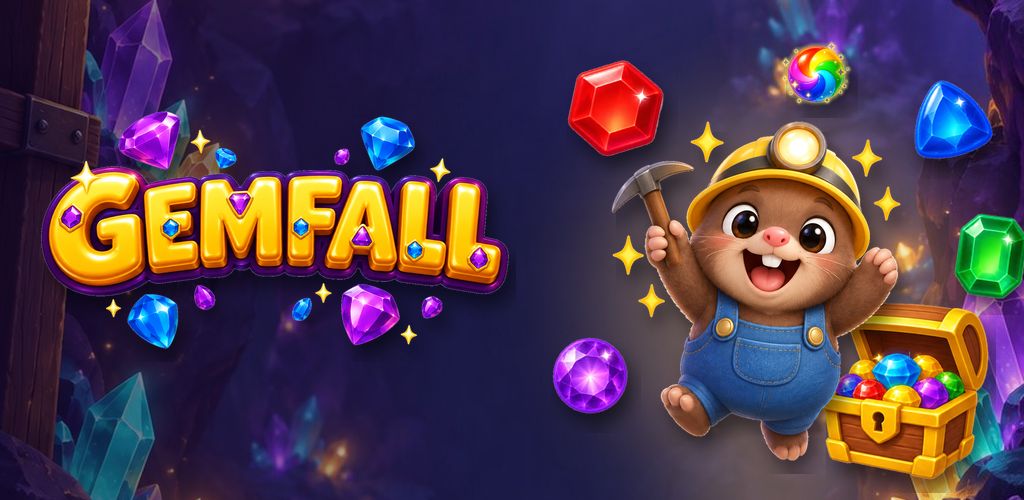
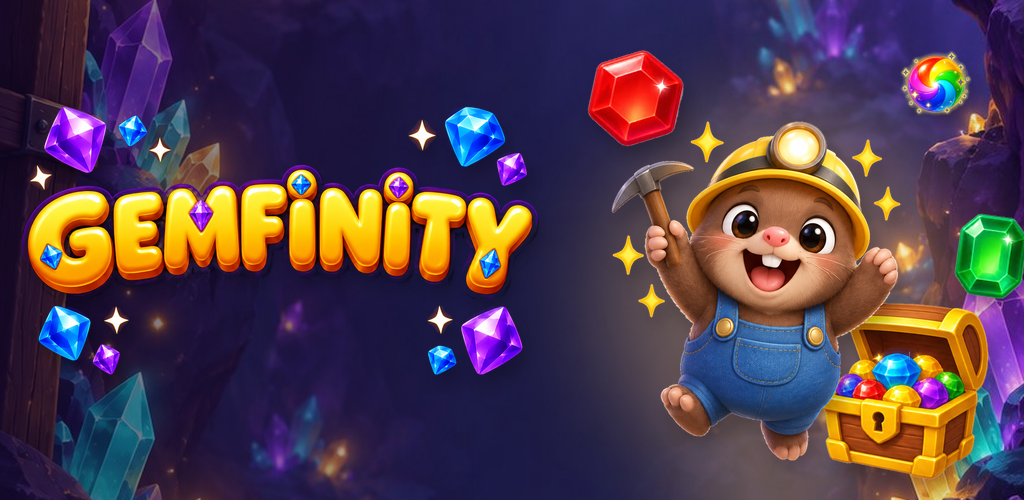
Rename the game to Gemfinity
- New logo (gold GEMFINITY lettering with gems), splash screen and Play
  feature graphic; new app icon: Digby holding a ruby, as a full-bleed
  Play icon and Android adaptive layers
- App name Gemfinity and app ID com.gemfinity.game (set before the first
  Play upload, after which it can't change); the build script finds the
  activity from the app ID
- All player-facing text, the store listing, privacy policy, launch
  checklist and README use the new name; release files are Gemfinity.apk
  and Gemfinity-play.aab, and the old Gemfall files are removed from the
  release
- Internal names stay (folders, the gemfall-latest release tag, the save
  key), so existing progress and update checks keep working

Claude-Session: https://claude.ai/code/session_01QCFom7i7LPYdSkXJyM8wrV

diff --git a/gemfall/js/main.js b/gemfall/js/main.js
@@ -1,4 +1,4 @@
-// Gemfall app controller: screens, level map, lives, HUD, input, overlays, boosters and saved progress.
+// Gemfinity app controller: screens, level map, lives, HUD, input, overlays, boosters and saved progress.
 import { LEVELS, WORLDS, mapFor, getLevel, layoutCount } from './levels.js';
 import { Renderer } from './render.js';
 import { Game } from './game.js';
@@ -158,7 +158,7 @@ async function applyTheme(id) {
   $('gameBg').src = A + THEMES[id].bg;
   if ($('map').classList.contains('active')) buildMap(false);
 }
-function versionText() { return isApp ? `Gemfall app 1.${appVer || '?'}${appChannel === 'play' ? ' (Google Play)' : ''} · game content ${BUILD.number}` : 'Gemfall web version'; }
+function versionText() { return isApp ? `Gemfinity app 1.${appVer || '?'}${appChannel === 'play' ? ' (Google Play)' : ''} · game content ${BUILD.number}` : 'Gemfinity web version'; }
 function openSettings() {
   modal(`${closeX}<h2 class="gold-title" style="margin-top: 6px">Settings</h2>${toggles()}${themePicker()}
     <div class="actions"><button class="btn btn-purple" data-act="close">Done</button>
@@ -740,7 +740,7 @@ function showUpdateNotice() {
       <div class="meta">${n.notes ? '' : 'New levels and improvements have downloaded.'}</div>
       <div class="actions"><button class="btn btn-green" data-act="update-restart">Restart now</button>
       <button class="btn btn-purple" data-act="close">Later</button></div>
-      <div class="meta" style="font-size: 13px">It also switches over by itself the next time you close Gemfall.</div>`);
+      <div class="meta" style="font-size: 13px">It also switches over by itself the next time you close Gemfinity.</div>`);
     if (n.notes) $('modal').querySelector('.meta').textContent = n.notes;
   } else {
     const play = n.channel === 'play';
@@ -750,14 +750,14 @@ function showUpdateNotice() {
       <div class="actions"><button class="btn btn-green" data-act="update-get">${play ? 'Update on Google Play' : 'Download it'}</button>
       <button class="btn btn-purple" data-act="close">Later</button></div>
       <div class="meta" style="font-size: 13px">${play ? 'Your progress is kept.' : 'Open the downloaded file to install it. Your progress is kept.'}</div>`);
-    $('modal').querySelector('.meta').textContent = n.message || 'A newer version of Gemfall is ready to install. It brings things this version can\u2019t get as a quick update.';
+    $('modal').querySelector('.meta').textContent = n.message || 'A newer version of Gemfinity is ready to install. It brings things this version can\u2019t get as a quick update.';
   }
 }
 function showForceUpdate(url, message, applying = false, channel = 'github') {
   const el = $('forceUpdate');
-  el.querySelector('h2').textContent = applying ? 'Updating Gemfall' : 'Update needed';
+  el.querySelector('h2').textContent = applying ? 'Updating Gemfinity' : 'Update needed';
   el.querySelector('.msg').textContent = applying ? 'Getting the latest version. This only takes a moment.'
-    : (message || 'This version of Gemfall needs an important fix. Download the new version to keep playing.');
+    : (message || 'This version of Gemfinity needs an important fix. Download the new version to keep playing.');
   const btn = el.querySelector('button');
   btn.hidden = applying || !url;
   btn.textContent = channel === 'play' ? 'Update on Google Play' : 'Download update';

diff --git a/gemfall/index.html b/gemfall/index.html
@@ -4,7 +4,7 @@
 <meta charset="utf-8">
 <meta name="viewport" content="width=device-width, initial-scale=1, maximum-scale=1, viewport-fit=cover">
 <meta name="theme-color" content="#1a1233">
-<title>Gemfall</title>
+<title>Gemfinity</title>
 <link rel="stylesheet" href="fonts/fonts.css">
 <style>
   :root {
@@ -255,7 +255,7 @@
 <body>
 <div id="app">
   <div id="loading">
-    <div class="h-font" style="font-size: 34px; color: var(--gold-2)">Gemfall</div>
+    <div class="h-font" style="font-size: 34px; color: var(--gold-2)">Gemfinity</div>
     <div class="bar"><div id="loadBar"></div></div>
     <div style="font-size: 13px; font-weight: 800; color: var(--muted)">Digging up gems…</div>
   </div>
@@ -269,7 +269,7 @@
         <span class="chip lives" style="margin-right: auto; margin-left: 8px"><img src="assets/ui-heart.png" alt="Lives"><span class="lives-count">3</span><small class="lives-time">Full</small></span>
         <button class="round" id="titleSettings" aria-label="Settings"><svg width="22" height="22" viewBox="0 0 24 24" fill="none" stroke="#fff" stroke-width="2.8" stroke-linecap="round" aria-hidden="true"><path d="M4 6h9M19 6h1M4 12h3M13 12h7M4 18h11M20 18h0"></path><circle cx="16" cy="6" r="2.4"></circle><circle cx="10" cy="12" r="2.4"></circle><circle cx="17.5" cy="18" r="2.4"></circle></svg></button>
       </div>
-      <img class="logo" src="assets/logo.png" alt="Gemfall">
+      <img class="logo" src="assets/logo.png" alt="Gemfinity">
       <div class="tag">DIG DEEP · MATCH GEMS · FIND TREASURE</div>
       <div class="stage" aria-hidden="true">
         <img class="fg" src="assets/gem-amethyst.png" alt="" style="left: 5%; top: 8%">

diff --git a/gemfall/js/levels.js b/gemfall/js/levels.js
@@ -1,4 +1,4 @@
-// Gemfall level data.
+// Gemfinity level data.
 // Layout legend (one character per cell, 8 columns per row):
 //   .  gem
 //   _  hole (not part of the board)

diff --git a/gemfall-android/play/PLAY-LAUNCH.md b/gemfall-android/play/PLAY-LAUNCH.md
@@ -1,4 +1,4 @@
-# Launching Gemfall on Google Play
+# Launching Gemfinity on Google Play
 
 Everything Play needs from the game is in this folder or built automatically. The steps below are the ones only the account owner can do.
 
@@ -6,7 +6,7 @@ Everything Play needs from the game is in this folder or built automatically. Th
 
 | Item | Where |
 | --- | --- |
-| The app bundle Google Play needs (`.aab`) | Built by GitHub on every push and attached to the [gemfall-latest release](https://github.com/jarjisjo-arch/video/releases/tag/gemfall-latest) as `Gemfall-play.aab`, once step 1 is done |
+| The app bundle Google Play needs (`.aab`) | Built by GitHub on every push and attached to the [gemfall-latest release](https://github.com/jarjisjo-arch/video/releases/tag/gemfall-latest) as `Gemfinity-play.aab`, once step 1 is done |
 | App icon, feature graphic, 6 phone screenshots | `icon-512.png`, `feature-graphic.png`, `screenshots/` |
 | Name, descriptions, release notes, category, tags | `store-listing.md` |
 | Privacy policy | `privacy-policy.md`, published at https://github.com/jarjisjo-arch/video/blob/ccr-589b2a74-kj2uok/gemfall-android/play/privacy-policy.md |
@@ -21,7 +21,7 @@ Google Play only accepts bundles signed with your own private **upload key**. It
 2. On GitHub, open the repository, then **Settings > Secrets and variables > Actions > New repository secret**. Add two secrets:
    - Name `PLAY_UPLOAD_KEYSTORE`, value: the whole text of `gemfall-upload.jks.base64.txt`
    - Name `PLAY_UPLOAD_PASSWORD`, value: the password
-3. Open **Actions**, select the latest "Build Gemfall Android app" run and choose **Re-run all jobs** (or ask Claude to push any change). When it finishes, `Gemfall-play.aab` appears on the release.
+3. Open **Actions**, select the latest "Build Gemfinity Android app" run and choose **Re-run all jobs** (or ask Claude to push any change). When it finishes, `Gemfinity-play.aab` appears on the release.
 
 ## 2. Create the developer account
 
@@ -32,12 +32,12 @@ Google Play only accepts bundles signed with your own private **upload key**. It
 
 In Play Console, choose **Create app**:
 
-- App name: `Gemfall: Gem Match Puzzle`
+- App name: `Gemfinity: Gem Match Puzzle`
 - Default language: English (United States)
 - App or game: **Game**. Free or paid: **Free**
 - Accept the declarations.
 
-The package name is `com.gemfall.game` and is fixed once the first bundle is uploaded. If Play says it is already taken, tell Claude; the app ID has to change before the first upload.
+The package name is `com.gemfinity.game` and is fixed once the first bundle is uploaded. If Play says it is already taken, tell Claude; the app ID has to change before the first upload.
 
 ## 4. Store listing
 
@@ -52,8 +52,8 @@ Under **Policy and programs > App content**:
 | Privacy policy | The privacy policy URL above |
 | App access | All functionality is available without special access |
 | Ads | No, the app doesn't contain ads |
-| Content rating | Category: **Game**. Answer **No** to violence, fear, sexual content, crude humor, language, controlled substances, gambling (Gemfall has no real or simulated gambling: chests and daily gifts are fixed rewards), user interaction or chat, sharing location, and digital purchases. Expect **Everyone / PEGI 3** |
-| Target audience | Gemfall's cartoon style appeals to children, so choosing age groups that include under 13 is the honest answer. That puts it under Google's Families policy, which Gemfall already meets: no ads, no accounts, no data collection, no tracking. If you pick 13 and over only, Google may still decide it appeals to children and ask for the same checks |
+| Content rating | Category: **Game**. Answer **No** to violence, fear, sexual content, crude humor, language, controlled substances, gambling (Gemfinity has no real or simulated gambling: chests and daily gifts are fixed rewards), user interaction or chat, sharing location, and digital purchases. Expect **Everyone / PEGI 3** |
+| Target audience | Gemfinity's cartoon style appeals to children, so choosing age groups that include under 13 is the honest answer. That puts it under Google's Families policy, which Gemfinity already meets: no ads, no accounts, no data collection, no tracking. If you pick 13 and over only, Google may still decide it appeals to children and ask for the same checks |
 | Data safety | "Does your app collect or share any of the required user data types?" **No**. Progress stays on the phone; the update check downloads files from GitHub and sends no user data |
 | Advertising ID | No, the app doesn't use an advertising ID |
 | Government, financial, health, news apps | No to each |
@@ -61,7 +61,7 @@ Under **Policy and programs > App content**:
 ## 6. Closed test: 12 testers for 14 days (required for new personal accounts)
 
 1. **Testing > Closed testing > Create track** (or use the default Alpha track).
-2. Create a release and upload `Gemfall-play.aab` from the release page. When asked about app signing, keep the default: Google creates and protects the app signing key, and your upload key signs what you upload.
+2. Create a release and upload `Gemfinity-play.aab` from the release page. When asked about app signing, keep the default: Google creates and protects the app signing key, and your upload key signs what you upload.
 3. **Testers:** create an email list with at least 12 Google accounts. Aim for 15 in case someone drops out: Google counts testers who stay opted in for **14 days in a row**.
 4. Send the testers the opt-in link with the message below. Each one must accept and install from Google Play.
 5. Roll out the release to the closed track. Google reviews it first, which can take from hours to a few days.
@@ -69,19 +69,19 @@ Under **Policy and programs > App content**:
 
 Message for testers:
 
-> Hi! I'm launching my game Gemfall on Google Play and need testers for two weeks. Please:
+> Hi! I'm launching my game Gemfinity on Google Play and need testers for two weeks. Please:
 > 1. Open this link on your Android phone and tap "Become a tester": [paste the opt-in link]
-> 2. Install Gemfall from the Google Play link on that page.
+> 2. Install Gemfinity from the Google Play link on that page.
 > 3. Play a few levels now and then over the next 14 days, and keep it installed until I say we're done.
 > Tell me if anything looks wrong. Thank you!
 
 ## 7. Apply for production
 
-After 14 days with at least 12 testers, Play Console shows **Apply for production** on the dashboard. Answer the questions about the test; Google's review can take up to about a week. Then go to **Production > Create new release**, add the latest `Gemfall-play.aab`, and roll out.
+After 14 days with at least 12 testers, Play Console shows **Apply for production** on the dashboard. Answer the questions about the test; Google's review can take up to about a week. Then go to **Production > Create new release**, add the latest `Gemfinity-play.aab`, and roll out.
 
 ## After launch
 
 - **New levels and fixes** still reach every player as live updates, with no Play review needed. Content updates must stay within what the listing describes (Google's rules for code that runs in a web view).
-- **App updates** (native changes such as a new plugin): upload the newest `Gemfall-play.aab` to Production. Each build has a higher version code, as Play requires.
-- **Forcing an update:** `forceAppBelow` in `update-policy.json` works for Play players too; their "Update needed" screen opens Gemfall's Google Play page.
+- **App updates** (native changes such as a new plugin): upload the newest `Gemfinity-play.aab` to Production. Each build has a higher version code, as Play requires.
+- **Forcing an update:** `forceAppBelow` in `update-policy.json` works for Play players too; their "Update needed" screen opens Gemfinity's Google Play page.
 - **The shared APK and the Play version are signed with different keys**, so one can't install over the other. To switch a phone (your own, for example), uninstall the APK first; its progress isn't carried over. After launch, share the Google Play link instead of the APK.

diff --git a/gemfall/README.md b/gemfall/README.md
@@ -1,4 +1,4 @@
-# Gemfall
+# Gemfinity
 
 A match-3 puzzle game set in a glowing crystal mine. Swap gems, set off special gems, and dig down through 81 levels across 9 worlds with Digby the mole miner, then keep going in the never-ending Endless Dig.
 
@@ -18,7 +18,7 @@ Opening `index.html` straight from the file system will not work, because browse
 
 Every push that changes the game builds an Android app (APK) on GitHub Actions and attaches it to the **gemfall-latest** release:
 
-`https://github.com/jarjisjo-arch/video/releases/download/gemfall-latest/Gemfall.apk`
+`https://github.com/jarjisjo-arch/video/releases/download/gemfall-latest/Gemfinity.apk`
 
 Open that link on an Android phone, download the file, open it and allow installs from your browser when Android asks. To share the game, send the same link (or the APK file itself). A newer APK installs over the old one and keeps your progress, because every build is signed with the same key.
 
@@ -26,13 +26,13 @@ The app is the same web game wrapped with [Capacitor](https://capacitorjs.com); 
 
 The signing key (`gemfall-android/gemfall-share.keystore`) is committed on purpose, so every build is signed the same way. That is fine for sharing with friends. Before publishing on Google Play, make a new private key and keep it out of the repository.
 
-**Google Play:** each build also makes `Gemfall-play.aab`, the bundle Google Play needs, signed with a private upload key kept in GitHub's secrets. The store icon, feature graphic, screenshots, listing text, privacy policy and a step-by-step launch checklist are in `../gemfall-android/play/` (start with `PLAY-LAUNCH.md`). Play installs are versioned `1.<build>-play`, so the game sends those players to Google Play rather than to the APK when an app update is needed.
+**Google Play:** each build also makes `Gemfinity-play.aab`, the bundle Google Play needs, signed with a private upload key kept in GitHub's secrets. The store icon, feature graphic, screenshots, listing text, privacy policy and a step-by-step launch checklist are in `../gemfall-android/play/` (start with `PLAY-LAUNCH.md`). Play installs are versioned `1.<build>-play`, so the game sends those players to Google Play rather than to the APK when an app update is needed.
 
 iPhones can't install APKs. iPhone players can use the web version and add it to the home screen from Safari's Share menu.
 
 ### Shipping updates
 
-Every build publishes three files to the **gemfall-latest** release: `Gemfall.apk`, `gemfall-web.zip` (the game itself: code, levels, art and sounds) and `update.json`, which describes the newest build. The Android app (version 1.6 and later) reads `update.json` each time it starts:
+Every build publishes three files to the **gemfall-latest** release: `Gemfinity.apk`, `gemfall-web.zip` (the game itself: code, levels, art and sounds) and `update.json`, which describes the newest build. The Android app (version 1.6 and later) reads `update.json` each time it starts:
 
 - **New levels and fixes arrive by themselves.** If the game content is newer than the player's, the app downloads `gemfall-web.zip` in the background (checked against its SHA-256) and shows an "Update ready" pop-up on the title or map screen. The new content takes over when the player taps **Restart now**, or the next time they close the app. If the new content fails to start, the app goes back to the previous version on its own. So to add levels, edit `js/levels.js` (and add a map in `WORLD_MAPS` for a new world) and push: nobody needs to reinstall.
 - **Forcing an update.** Edit `gemfall-android/update-policy.json` and push:
@@ -135,7 +135,7 @@ Move counts were tuned by having a bot play every level several times; most leve
 
 ## Art
 
-The gems, fruit and space pieces, special gems, items, obstacles, icons, backgrounds, the eight world maps, Digby, the logo and the app icon were generated with Figma's AI image generator for this project. The originals are in the "Gemfall game art" Figma file.
+The gems, fruit and space pieces, special gems, items, obstacles, icons, backgrounds, the eight world maps, Digby, the logo and the app icon were generated with Figma's AI image generator for this project. The originals are in the "Gemfinity game art" Figma file.
 
 The sound effects and jingles in `assets/sfx/` come from Kenney's [Interface Sounds](https://kenney.nl/assets/interface-sounds), [Impact Sounds](https://kenney.nl/assets/impact-sounds) and [Music Jingles](https://kenney.nl/assets/music-jingles) packs, released under CC0 (public domain). They were trimmed, normalised and converted to MP3; the license is in `assets/sfx/License-Kenney.txt`.
 

diff --git a/gemfall-android/play/privacy-policy.md b/gemfall-android/play/privacy-policy.md
@@ -1,28 +1,28 @@
-# Gemfall privacy policy
+# Gemfinity privacy policy
 
 Last updated: 25 November 2026
 
-Gemfall is a match-3 puzzle game. This policy explains what happens to information when you play it.
+Gemfinity is a match-3 puzzle game. This policy explains what happens to information when you play it.
 
-## What Gemfall collects
+## What Gemfinity collects
 
-Nothing. Gemfall doesn't ask you to create an account, doesn't show ads, doesn't use analytics or tracking tools, and doesn't collect, sell or share personal information.
+Nothing. Gemfinity doesn't ask you to create an account, doesn't show ads, doesn't use analytics or tracking tools, and doesn't collect, sell or share personal information.
 
 ## What stays on your device
 
-Your progress (unlocked levels, stars, scores, boosters, lives, daily streak and settings) is saved only on your device. Uninstalling Gemfall deletes it.
+Your progress (unlocked levels, stars, scores, boosters, lives, daily streak and settings) is saved only on your device. Uninstalling Gemfinity deletes it.
 
 ## Internet use
 
-When the Android app starts, it checks for game updates by downloading a small file from GitHub, where Gemfall's files are hosted. When an update is available, it also downloads the new game content (levels, pictures and sounds) from GitHub. These requests carry no personal information about you. Like any website, GitHub receives standard connection details such as your IP address; GitHub handles them under the [GitHub General Privacy Statement](https://docs.github.com/en/site-policy/privacy-policies/github-general-privacy-statement). If you installed Gemfall from Google Play, updates to the app itself come through Google Play under Google's privacy policy.
+When the Android app starts, it checks for game updates by downloading a small file from GitHub, where Gemfinity's files are hosted. When an update is available, it also downloads the new game content (levels, pictures and sounds) from GitHub. These requests carry no personal information about you. Like any website, GitHub receives standard connection details such as your IP address; GitHub handles them under the [GitHub General Privacy Statement](https://docs.github.com/en/site-policy/privacy-policies/github-general-privacy-statement). If you installed Gemfinity from Google Play, updates to the app itself come through Google Play under Google's privacy policy.
 
 ## Permissions
 
-Gemfall uses one Android permission: internet access, for the update check described above. The game plays offline.
+Gemfinity uses one Android permission: internet access, for the update check described above. The game plays offline.
 
 ## Children
 
-Gemfall is suitable for all ages and doesn't collect personal information from anyone, including children.
+Gemfinity is suitable for all ages and doesn't collect personal information from anyone, including children.
 
 ## Changes to this policy
 

diff --git a/gemfall-android/play/store-listing.md b/gemfall-android/play/store-listing.md
@@ -1,11 +1,11 @@
-# Gemfall: Google Play store listing
+# Gemfinity: Google Play store listing
 
 Copy each part into Play Console (Grow users > Store presence > Main store listing). The limits are Google's.
 
-## App name (25/30 characters)
+## App name (27/30 characters)
 
 ```
-Gemfall: Gem Match Puzzle
+Gemfinity: Gem Match Puzzle
 ```
 
 ## Short description (78/80 characters)
@@ -44,7 +44,7 @@ PLAY YOUR WAY
 ## Release notes for the first release (102/500 characters)
 
 ```
-Welcome to Gemfall! 81 levels across 9 worlds, the Endless Dig, three board styles and daily treasure.
+Welcome to Gemfinity! 81 levels across 9 worlds, the Endless Dig, three board styles and daily treasure.
 ```
 
 ## Graphics (all in this folder)
